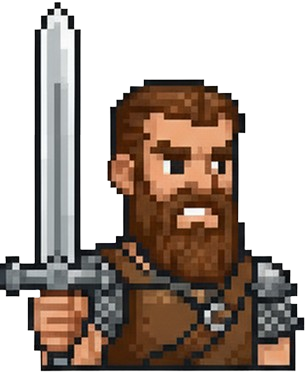
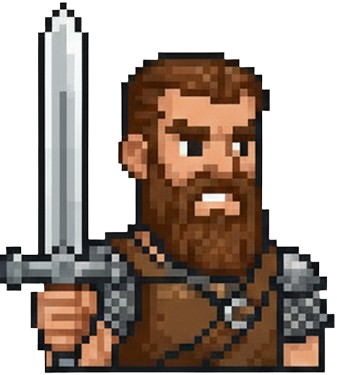
Fix warrior image

diff --git a/src/assets/constants.ts b/src/assets/constants.ts
@@ -27,7 +27,7 @@ export const appIllustrationToAspectRatio: Record<AppIllustration, number> = {
   [WorkoutVoiceVariant.friendMale]: 241 / 344,
   [WorkoutVoiceVariant.calmFemale]: 214 / 343,
   [WorkoutVoiceVariant.calmMale]: 251 / 344,
-  [WorkoutCharacterVariant.warrior]: 306 / 373,
+  [WorkoutCharacterVariant.warrior]: 337 / 373,
   [WorkoutCharacterVariant.cyborg]: 282 / 315,
   [WorkoutCharacterVariant.wizard]: 303 / 376,
 };
